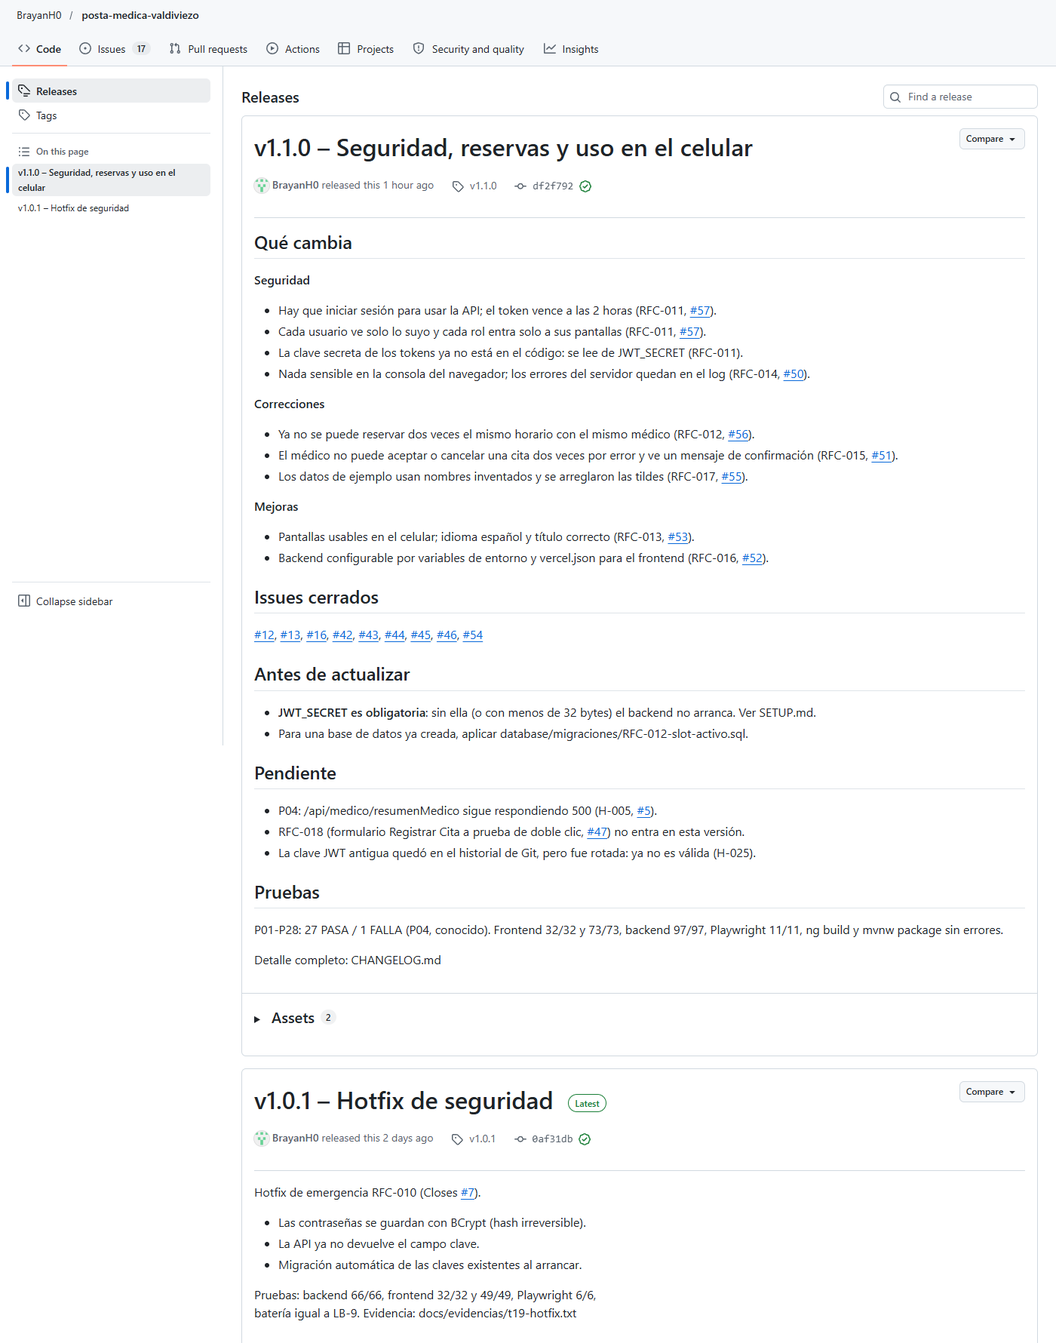
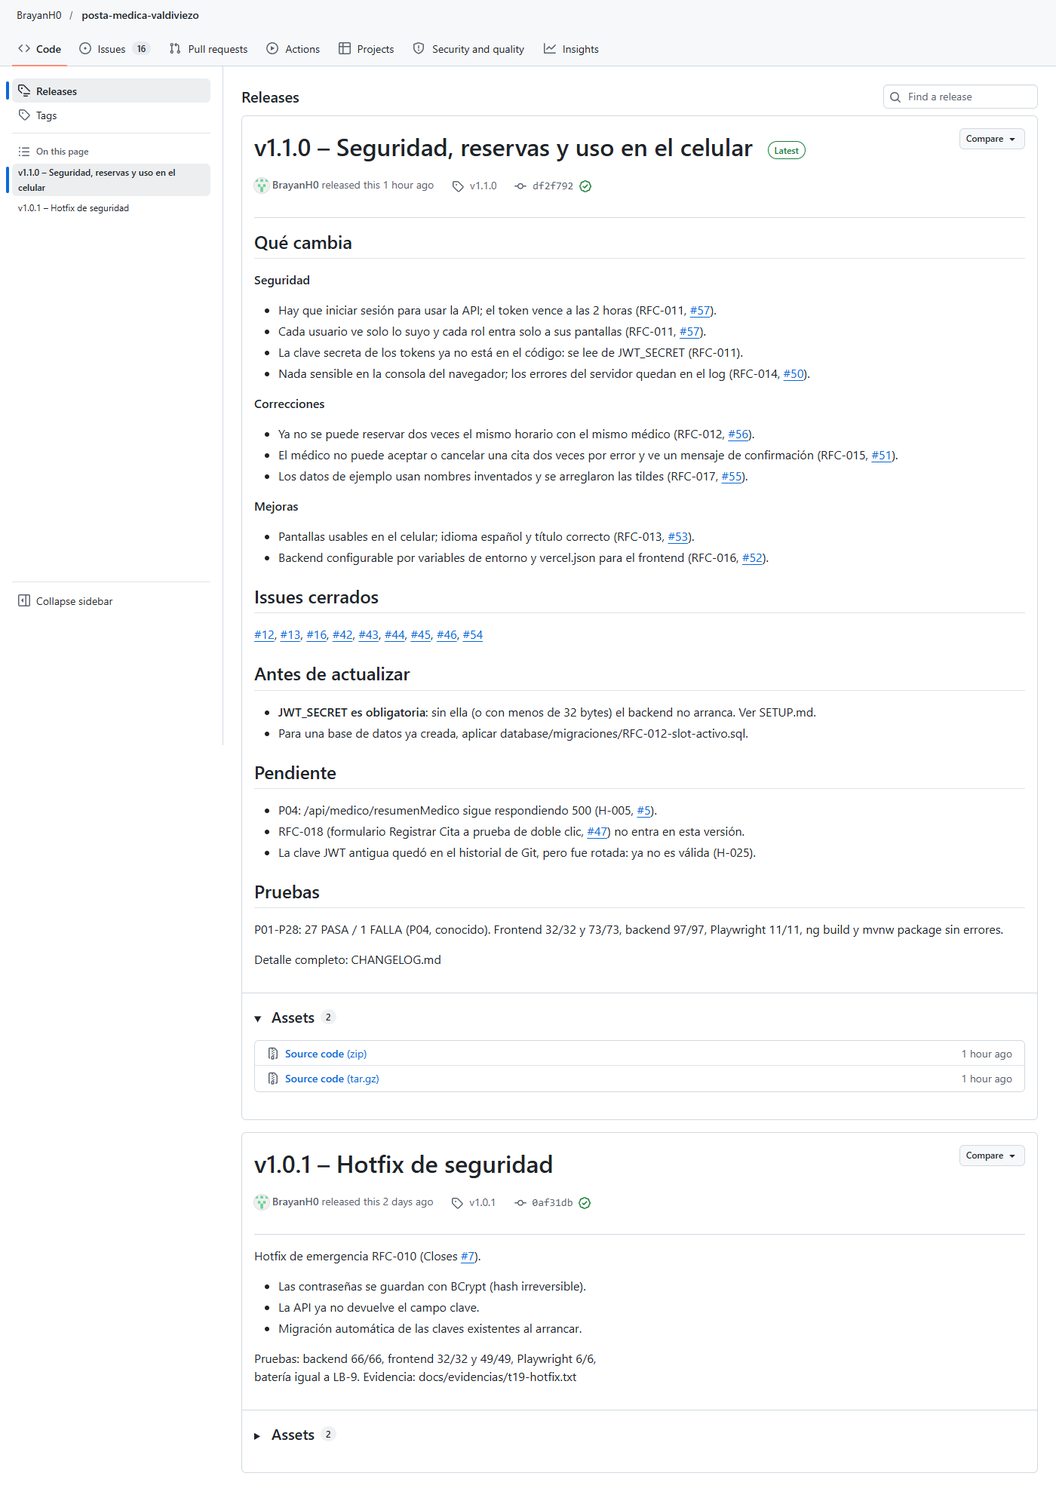
Docs: evidencia T3 actualizada (Latest, issue #25 y nombres)

diff --git a/docs/HALLAZGOS.md b/docs/HALLAZGOS.md
@@ -44,7 +44,7 @@ Rutas abreviadas: `FE/` = `proyecto_valdiviezo/src/app/`, `BE/` = `backend/backe
 | H-022 | Si el médico no tiene horario definido para el día elegido, "Registrar Cita" ofrece igual todos los bloques de 08:00 a 20:00. El código lo hace a propósito ("Fallback… any date is available"). En los datos actuales ningún médico tiene horario sábado ni domingo, así que cualquier fin de semana aparece con horas libres. | `FE/paciente/registrar-cita/registrar-cita.component.ts:96-108` | Alta | Correctivo | Código citado. BD: `SELECT id_medico, GROUP_CONCAT(dia_semana) FROM Disponibilidad_Medico GROUP BY id_medico` → los 15 médicos tienen solo `Lunes,Martes,Miércoles,Jueves,Viernes`. No se probó en pantalla. **Nota LB-6:** la regla se movió sin cambios a `frontend/src/app/features/paciente/registrar-cita/horarios-cita.ts` (`HORARIO_POR_DEFECTO` y `calcularHorariosDisponibles`); sigue abierto (U76, U77) | Abierto | Pendiente |
 | H-023 | Los estados de cita están escritos como números fijos repetidos en varios archivos (1 = Pendiente, 4 = Atendida…). El módulo médico usa además el estado "Aprobada", que no existe en la tabla `Estado_Cita` (los estados reales son Pendiente, Confirmada, Cancelada, Atendida y Reprogramada). | Números: `FE/paciente/registrar-cita/registrar-cita.component.ts:134`; `FE/paciente/mis-citas/mis-citas.component.ts:63-66,73-76`; `BE/repository/CitaRepository.java:22,48`. "Aprobada": `FE/medico-dashboard/services/medico.service.ts:11,54,72,78`; `FE/medico-dashboard/medico-citas-pendientes/medico-citas-pendientes.component.ts:37`; `FE/medico-dashboard/medico-citas-aprobadas/medico-citas-aprobadas.component.ts:19` | Media | Preventivo | `SELECT * FROM Estado_Cita` → 1 Pendiente, 2 Confirmada, 3 Cancelada, 4 Atendida, 5 Reprogramada. **Resuelto en RFC-003 (LB-3):** el módulo médico ya no usa "Aprobada" ni números fijos; trabaja con los nombres reales ("Pendiente", "Confirmada", "Cancelada") y el backend busca el ID en `Estado_Cita` (`Estado_CitaRepository.findByNombreEstado`); pantallas y menú dicen "Confirmadas". **Sigue pendiente:** los números fijos de `registrar-cita.component.ts:134` (`estado_cita: 1`), `mis-citas.component.ts:63-66,73-76` (switch 1–4) y `CitaRepository.java:22,48` (`estado_cita = 4`); y el nombre "aprobadas" en la ruta `/medico-dashboard/citas-aprobadas`, en los archivos `medico-citas-aprobadas.*` y en la clase `MedicoCitasAprobadasComponent` (se renombrarán en la reorganización, H-017). **Nota LB-4:** RFC-004 **no** los renombró: cambiar la ruta `/medico-dashboard/citas-aprobadas` cambia el comportamiento y la reorganización no puede hacerlo; los archivos solo se movieron a `frontend/src/app/features/medico/medico-citas-aprobadas/`. Sigue pendiente | Abierto (parcial: módulo médico resuelto en RFC-003) | RFC-003 (módulo médico); resto Pendiente |
 | H-024 | Los ingresos se calculan con el precio **actual** de la especialidad, no con el precio cobrado en la cita. Las consultas suman `Especialidad.precio` unidas por el médico; la tabla `Cita` no guarda precio. Si cambia el precio de una especialidad, cambian los ingresos de meses pasados. | `BE/repository/CitaRepository.java:18-23` (`sumTotalIngresos`), `:48-49` (`ingresosMensuales`); `BDPostaMedica.sql:88` (precio solo en `Especialidad`) | Alta | Correctivo | Código citado; `CREATE TABLE Cita` en `BDPostaMedica.sql` no tiene columna de precio | Abierto | Pendiente |
-| H-025 | La clave secreta para firmar los JWT está escrita en el código fuente. | `BE/seguridad/TokenUtils.java:15` (`ACCESS_TOKEN_SECRET = "…"`) | Alta | Preventivo | Código citado. **Tarea 26:** `TokenUtils` recibe `app.jwt.secret=${JWT_SECRET}` (sin valor por defecto; menos de 32 bytes → no arranca, U93); `git grep -n ACCESS_TOKEN_SECRET HEAD` en la rama → solo menciones en `docs/` (HALLAZGOS y auditorías, con el valor enmascarado), ninguna en `backend/`; `git log -S ACCESS_TOKEN_SECRET` → `17e2118` (commit inicial). **El valor viejo sigue en el historial de Git** (AUD-SEG-08): no se reutiliza, pero purgarlo con `git filter-repo` queda fuera de esta tarea | Cerrado en código; secreto rotado, queda en el historial. (RFC-011, LB-11 — PR #57 a `develop` y PR #59 a `master`. Tarea 29: el `JWT_SECRET` en uso mide 64 caracteres y es distinto del valor viejo de `TokenUtils.java` en LB-10, que mide 32; comparado con un script que no imprime ninguno de los dos. El valor viejo sigue en el historial de Git; purgarlo lo decide el usuario. El issue #25 sigue abierto en GitHub.) | RFC-011 (punto 6 del propósito) |
+| H-025 | La clave secreta para firmar los JWT está escrita en el código fuente. | `BE/seguridad/TokenUtils.java:15` (`ACCESS_TOKEN_SECRET = "…"`) | Alta | Preventivo | Código citado. **Tarea 26:** `TokenUtils` recibe `app.jwt.secret=${JWT_SECRET}` (sin valor por defecto; menos de 32 bytes → no arranca, U93); `git grep -n ACCESS_TOKEN_SECRET HEAD` en la rama → solo menciones en `docs/` (HALLAZGOS y auditorías, con el valor enmascarado), ninguna en `backend/`; `git log -S ACCESS_TOKEN_SECRET` → `17e2118` (commit inicial). **El valor viejo sigue en el historial de Git** (AUD-SEG-08): no se reutiliza, pero purgarlo con `git filter-repo` queda fuera de esta tarea | Cerrado en código; secreto rotado, queda en el historial. (RFC-011, LB-11 — PR #57 a `develop` y PR #59 a `master`. Tarea 29: el `JWT_SECRET` en uso mide 64 caracteres y es distinto del valor viejo de `TokenUtils.java` en LB-10, que mide 32; comparado con un script que no imprime ninguno de los dos. El valor viejo sigue en el historial de Git; el usuario decidió no reescribir el historial. El issue #25 se cerró el 2026-11-12 a las 17:55:56.) | RFC-011 (punto 6 del propósito) |
 | H-026 | `seguridad/prueba.java` es una clase de prueba dentro del código de producción: tiene un `main` que genera un token y lo imprime por consola. | `BE/seguridad/prueba.java:3-6` | Baja | Preventivo | Código citado. En LB-4 se eliminó; la única referencia era la configuración de depuración "prueba" de `backend/.vscode/launch.json`, que también se quitó | Cerrado (RFC-004, LB-4) | Reorganización de carpetas (RFC-004) |
 | H-027 | Hay más componentes huérfanos, además de los de H-009, que siguen usando las claves viejas `token` y `role`: `UsuariosComponent` lee `localStorage.getItem('token')` y no está en ninguna ruta ni lo importa ningún archivo; `login-paciente/login-paciente.ts` (distinto de `login-paciente.component.ts`) escribe `token` y `role` y tampoco está en las rutas. Como nadie los ejecuta, no afectan el esquema de sesión de RFC-001; se dejaron sin tocar porque están fuera de su alcance. | `FE/features/usuario/components/components.ts:14`; `FE/login-paciente/login-paciente.ts:27-28` | Baja | Preventivo | `grep -rn "UsuariosComponent\|components/components"` → solo su propio archivo; `app.routes.ts` no los referencia. En LB-4 se eliminaron `features/usuario/components/components.*` (4 archivos, incluido su spec) y `login-paciente/login-paciente.ts` (con su `.html`); evidencia en RFC-004 | Cerrado (RFC-004, LB-4) | Reorganización de carpetas (RFC-004) |
 | H-028 | El login de paciente no comprueba el rol: acepta credenciales de médico o de administrador y entra a las pantallas del paciente. Como los IDs de las tablas `Medico` y `Paciente` coinciden, el médico 1 ve las citas del **paciente** 1. Existía en LB-0 (esas líneas no cambiaron con RFC-001); se detectó durante las pruebas de LB-1. | `FE/login-paciente/login-paciente.component.ts:51-55` | Crítica | Correctivo | Formulario de paciente con `10000001` / `123456` (médico) → URL `/welcome`, localStorage `{"userId":"1","userName":"Jorge Santos Ruiz","userType":"medico"}`; `/paciente/mis-citas` muestra "2023-07-01 - 09:00:00 Atendida Médico: Jorge Santos Ruiz … Chequeo general" (citas del paciente 1). En LB-2, P19: el login de paciente con médico o admin se queda en `/login-paciente`, localStorage `{}` | Cerrado (RFC-002, LB-2) | RFC-002 |
@@ -99,7 +99,7 @@ Cada hallazgo tiene un issue en `BrayanH0/posta-medica-valdiviezo` con el mismo 
 | H-022 | [#22](https://github.com/BrayanH0/posta-medica-valdiviezo/issues/22) | Abierto | alta, bug |
 | H-023 | [#23](https://github.com/BrayanH0/posta-medica-valdiviezo/issues/23) | Abierto | media, mejora |
 | H-024 | [#24](https://github.com/BrayanH0/posta-medica-valdiviezo/issues/24) | Abierto | alta, bug |
-| H-025 | [#25](https://github.com/BrayanH0/posta-medica-valdiviezo/issues/25) | Abierto (comprobado en la tarea 29: el PR #59 no lo nombra en "Closes"; el secreto viejo sigue en el historial) | alta, mejora |
+| H-025 | [#25](https://github.com/BrayanH0/posta-medica-valdiviezo/issues/25) | Cerrado (2026-11-12 17:55:56, a mano por el usuario, con el comentario "Cerrado en código con RFC-011 (v1.1.0)… El secreto antiguo quedó en el historial de Git, pero fue rotado y ya no es válido. No se reescribe el historial…") | alta, mejora |
 | H-026 | [#26](https://github.com/BrayanH0/posta-medica-valdiviezo/issues/26) | Cerrado | baja, mejora |
 | H-027 | [#27](https://github.com/BrayanH0/posta-medica-valdiviezo/issues/27) | Cerrado | baja, mejora |
 | H-028 | [#28](https://github.com/BrayanH0/posta-medica-valdiviezo/issues/28) | Cerrado | bug, critica |
@@ -141,11 +141,11 @@ Cada hallazgo tiene un issue en `BrayanH0/posta-medica-valdiviezo` con el mismo 
 
 **Tarea 27 (2026-11-12, release v1.1.0):** en la tabla de hallazgos, H-012, H-013, H-016, H-025, H-042, H-043, H-044, H-045, H-046 y H-048 pasan a "en `develop` y en `release/1.1`, sale en v1.1.0" (antes: "pendiente de merge" o "Abierto"). **No se marcan "Cerrado"** hasta que `release/1.1` se una a `master` y lleve el tag LB-11. En GitHub, sus issues (#12, #13, #16, #42, #43, #44, #45, #46 y #54) **siguen abiertos**: los PR #50–#53 y #55–#57 se unieron a `develop`, y GitHub solo cierra issues cuando el cambio llega a la rama por defecto (`master`). El PR de `release/1.1` a `master` lleva "Closes" de los 9, así que se cierran al unirlo; la columna "Estado en GitHub" de la tabla de issues se actualiza después de ese merge. H-005 (#5, P04) y H-047 (#47, RFC-018) no entran en v1.1.0 y siguen abiertos.
 
-**Tarea 29 (2026-11-12, cierre post-release):** el PR #59 (`release/1.1` → `master`) se unió el 2026-11-12 a las 16:10:42 y los tags `LB-11` y `v1.1.0` (16:11:26) apuntan a su commit de merge `df2f792`. Por eso los 10 hallazgos de la tarea 27 pasan a "Cerrado (…, LB-11)" y H-007 a "Cerrado (RFC-010, LB-10)" (PR #48, tags `LB-10` y `v1.0.1` sobre `0af31db`). H-025 queda "Cerrado en código; secreto rotado, queda en el historial". Estado en GitHub según `gh issue view` (2026-11-12 17:12:54; horas de GitHub en UTC pasadas a −05:00): #7 cerrado el 2026-11-10 20:24; #12, #13, #16, #42–#46 y #54 cerrados el 2026-11-12 entre 16:10:43 y 16:10:50 por el PR #59; #5, #25 y #47 siguen abiertos.
+**Tarea 29 (2026-11-12, cierre post-release):** el PR #59 (`release/1.1` → `master`) se unió el 2026-11-12 a las 16:10:42 y los tags `LB-11` y `v1.1.0` (16:11:26) apuntan a su commit de merge `df2f792`. Por eso los 10 hallazgos de la tarea 27 pasan a "Cerrado (…, LB-11)" y H-007 a "Cerrado (RFC-010, LB-10)" (PR #48, tags `LB-10` y `v1.0.1` sobre `0af31db`). H-025 queda "Cerrado en código; secreto rotado, queda en el historial". Estado en GitHub según `gh issue view` (2026-11-12 17:12:54; horas de GitHub en UTC pasadas a −05:00): #7 cerrado el 2026-11-10 20:24; #12, #13, #16, #42–#46 y #54 cerrados el 2026-11-12 entre 16:10:43 y 16:10:50 por el PR #59; #5, #25 y #47 siguen abiertos. *Actualización (2026-11-12 17:56:19, `gh`): el usuario cerró el #25 a las 17:55:56; quedan abiertos #5 y #47. En total, 16 issues abiertos y 32 cerrados.*
 
 ## Observaciones sin número (tarea 29; decide el usuario si se registran como hallazgo)
 
-- **El GitHub Release marcado "Latest" es v1.0.1, no v1.1.0.** `gh release list` (2026-11-12, tarea 29) muestra v1.0.1 como *Latest* aunque v1.1.0 es más nuevo. Lo más probable es que al publicar v1.1.0 se desmarcara la opción "Set as the latest release"; la causa no se verificó. Se ve en la Figura 14-3 del informe. Para corregirlo hay que editar el Release v1.1.0 en GitHub; no se tocó.
+- **El GitHub Release marcado "Latest" es v1.0.1, no v1.1.0.** `gh release list` (2026-11-12, tarea 29) muestra v1.0.1 como *Latest* aunque v1.1.0 es más nuevo. Lo más probable es que al publicar v1.1.0 se desmarcara la opción "Set as the latest release"; la causa no se verificó. Para corregirlo había que editar el Release v1.1.0 en GitHub. **Resuelto:** el usuario marcó v1.1.0 como "Latest" (`gh release list`, 2026-11-12 17:56:19), y la Figura 14-3 se volvió a tomar.
 - **El reporte de la tarea 28 (tablas 6 y 8) no quedó en `docs/`.** Se reconstruyó en la tarea 29 (ver BITACORA).
 - **El token se guarda en `localStorage`**, igual que el resto de la sesión. Un XSS podría leerlo; hoy no hay *sinks* peligrosos en el frontend (AUD-SEG, "Revisado sin hallazgos"). La alternativa (cookie `HttpOnly`) obliga a reactivar CSRF y a configurar cookies entre dominios, que RFC-011 descartó.
 - **Sin límite de intentos en `/login`** (AUD-SEG-06): sigue igual.

diff --git a/docs/entrega/T3/EVIDENCIA_T3.md b/docs/entrega/T3/EVIDENCIA_T3.md
@@ -2,7 +2,7 @@
 
 Texto listo para pegar en el informe. Cada imagen está en `img/`, tiene 1400 px de ancho y lleva su pie de figura debajo. Las fechas y horas salen de `git log`, `git for-each-ref` y de la API de GitHub (`gh`), en hora de Perú (UTC−5). Ninguna imagen muestra tokens, claves ni el `JWT_SECRET`.
 
-Imágenes tomadas el 2026-11-12. Las de GitHub, entre las 17:31:07 y las 17:31:42, sin iniciar sesión (el repositorio es público; por eso arriba aparecen "Sign in" y "Sign up" y las fechas se ven como "yesterday" o "1h ago"). Las de la aplicación, entre las 17:24 y las 17:25, con la versión 1.1.0 (`master` = tag `LB-11`, `df2f792`) y la base de datos recién cargada con `database/BDPostaMedica.sql` (datos ficticios). Durante las capturas no se guardó ninguna cita.
+Imágenes tomadas el 2026-11-12. Las de GitHub, entre las 17:31:07 y las 17:31:42 (Figuras 13-1 y 13-2) y entre las 18:00:11 y las 18:00:58 (Figuras 14-3, 21 y 22, tomadas de nuevo después de marcar v1.1.0 como "Latest" y cerrar el issue #25), sin iniciar sesión (el repositorio es público; por eso arriba aparecen "Sign in" y "Sign up" y las fechas se ven como "yesterday" o "1h ago"). Las de la aplicación, entre las 17:24 y las 17:25, con la versión 1.1.0 (`master` = tag `LB-11`, `df2f792`) y la base de datos recién cargada con `database/BDPostaMedica.sql` (datos ficticios). Durante las capturas no se guardó ninguna cita.
 
 ---
 
@@ -62,17 +62,16 @@ Conteo con `git log LB-11 --no-merges` (commits propios, sin contar los de merge
 
 | Integrante | Cuenta de GitHub | Paquete / RFC | Pull request | N.º de commits |
 |---|---|---|---|---|
-| Sin registro (no figura en el repositorio) | pfaberio27-png | P1 — RFC-014 (consola y log de errores) | #50 | 6 (5 + 1 de corrección) |
-| Sin registro | Paolo1710 | P3 — RFC-015 (Aceptar/Cancelar del médico) | #51 | 3 |
-| Sin registro | Angel29042001 | P4 — RFC-013 (accesibilidad y celular) | #53 | 4 |
-| Sin registro | Rashidchz | P5 — RFC-016 (configuración para el despliegue) | #52 | 4 |
-| Brayan | BrayanH0 | RFC-001 a RFC-012 y RFC-017 (incluye la reorganización, las refactorizaciones R1–R4, el hotfix RFC-010 y la autenticación RFC-011), release v1.1.0 y documentación | #48, #49, #55, #56, #57, #58, #59, #60 | 53 |
+| Clauder Paulo Faberio Carhuapoma | pfaberio27-png | P1 — RFC-014 (consola y log de errores) | #50 | 6 (5 + 1 de corrección) |
+| Christian Paolo Silva Carrillo | Paolo1710 | P3 — RFC-015 (Aceptar/Cancelar del médico) | #51 | 3 |
+| Angel Gabriel Nolasco Poves | Angel29042001 | P4 — RFC-013 (accesibilidad y celular) | #53 | 4 |
+| Rashid Gabriel Chavez Zevallos | Rashidchz | P5 — RFC-016 (configuración para el despliegue) | #52 | 4 |
+| Brayan Junior Huamani Ostos | BrayanH0 | Hotfix RFC-010, RFC-011, RFC-012, RFC-017 y release v1.1.0 (además, en la etapa T2: RFC-001 a RFC-009 y la documentación) | #48, #49, #55, #56, #57, #58, #59, #60 | 53 |
 | **Total** | | | | **70** |
 
 **Detalle de los 53 commits de BrayanH0:** 6 de RFC-011; 2 de RFC-010; 2 de RFC-017; 1 por cada uno de RFC-001 a RFC-009 y RFC-012 (10; RFC-004 es la reorganización y RFC-005 a 008 las refactorizaciones R1–R4); y 33 de documentación, pruebas de caracterización, la batería de regresión y la release (por ejemplo "Release v1.1.0" y los registros de la bitácora). Además figuran 16 commits de merge de Brayan: 11 hechos desde GitHub al unir los PR y 5 locales.
 
 **Notas:**
-- Los nombres de los integrantes no están en el repositorio; completar la primera columna.
 - 52 de los 53 commits de BrayanH0 y los 4 de Angel29042001 llevan `Co-Authored-By: Claude Opus 5.5`: se hicieron con ayuda de Claude Code. Los de pfaberio27-png, Paolo1710 y Rashidchz no lo llevan (se hicieron en el editor web de GitHub).
 - El PR de P1 tiene 6 commits porque incluye el de corrección pedido en la revisión (ítem 13).
 
@@ -82,7 +81,7 @@ Conteo con `git log LB-11 --no-merges` (commits propios, sin contar los de merge
 
 ![Releases en GitHub](img/fig-14-3.png)
 
-**Figura 14-3.** Página Releases del repositorio en GitHub, con la versión v1.1.0 "Seguridad, reservas y uso en el celular" (tag `v1.1.0`, commit `df2f792`) y la versión v1.0.1 "Hotfix de seguridad" (tag `v1.0.1`, commit `0af31db`). *Nota: GitHub muestra la etiqueta "Latest" en v1.0.1 porque así quedó marcada al publicar; la versión vigente es v1.1.0.*
+**Figura 14-3.** Página Releases del repositorio en GitHub, con la versión vigente v1.1.0 "Seguridad, reservas y uso en el celular" (marcada "Latest"; tag `v1.1.0`, commit `df2f792`) y la versión anterior v1.0.1 "Hotfix de seguridad" (tag `v1.0.1`, commit `0af31db`). Cada release trae su descripción, los issues que cierra y el código fuente descargable (Assets).
 
 **Tags del repositorio**
 
@@ -128,11 +127,11 @@ Datos (de `docs/PRUEBAS.md`, tabla "Pruebas que pasan por línea base"): LB-0 7 
 
 ![Issues abiertos](img/fig-21.png)
 
-**Figura 21.** Issues abiertos en GitHub (17): los hallazgos que todavía no tienen un cambio aplicado, cada uno con su gravedad y su tipo (`bug`, `mejora`).
+**Figura 21.** Issues abiertos en GitHub (16): los hallazgos que todavía no tienen un cambio aplicado, cada uno con su gravedad y su tipo (`bug`, `mejora`).
 
 ![Issues cerrados](img/fig-22.png)
 
-**Figura 22.** Issues cerrados en GitHub (31; se ve la primera página, con 25). Los de arriba (H-042 a H-048, H-016, H-013 y H-012) se cerraron con la release v1.1.0 y muestran el ícono del pull request que los cerró. Los demás se cerraron en octubre, con un comentario de cierre: son hallazgos atendidos entre LB-1 y LB-9, y correcciones de documentación (H-040, H-041).
+**Figura 22.** Issues cerrados en GitHub (32; se ve la primera página, con 25). H-042 a H-048, H-016, H-013 y H-012 se cerraron con la release v1.1.0 y muestran el ícono del pull request que los cerró. H-025 (clave secreta de JWT en el código) se cerró después de la release, con un comentario: el secreto ya no está en el código y el antiguo, que quedó en el historial, fue rotado. Los demás se cerraron en octubre, con un comentario de cierre: son hallazgos atendidos entre LB-1 y LB-9, y correcciones de documentación (H-040, H-041).
 
 ---
 

diff --git a/docs/BITACORA.md b/docs/BITACORA.md
@@ -1515,3 +1515,16 @@ Después del merge, PR de `master` a `develop`:
 ```
 gh pr create --base develop --head master --title "Merge master (cierre v1.1.0 y evidencia T3) en develop" --body "Devuelve a develop la documentacion de la tarea 29 (cierre post-release v1.1.0 y evidencia del informe T3). Sin cambios de codigo."
 ```
+
+### [2026-11-12 17:56–18:02] Tarea 29 (continuación): cambios del usuario en GitHub y nombres del 14.2
+- **Pedido del usuario:** marcó v1.1.0 como "Latest" y cerró el issue #25. Pidió volver a tomar las Figuras 14-3, 21 y 22 y corregir los totales, poner los nombres de los integrantes en el 14.2, y hacer un commit nuevo (sin enmendar).
+- **Verificación antes de editar** (17:56:19): `gh release list` → v1.1.0 "Latest"; `gh issue view 25` → CLOSED 2026-11-12T22:55:56Z (17:55:56), `COMPLETED`, con el comentario de cierre del usuario; `gh issue list` → **16 abiertos, 32 cerrados**. Coincide con lo que dijo el usuario.
+- **Figuras:** se agregó a `componer.cjs` (scratchpad) la variable `SOLO` para regenerar solo `fig-14-3`, `fig-21` y `fig-22`; las otras 16 imágenes no cambian (`git status` muestra solo esas 3).
+  - **Fallo propio:** la primera corrida (17:57:46–17:58:16) dejó dos defectos. En la 14-3, el bloque "Assets" de v1.1.0 (desplegado por ser Latest) salía cargando y v1.0.1 quedaba cortado. En la 21 entraba parte del pie de GitHub, porque la página es más corta con 16 issues. Causa: los recortes tenían una altura fija, medida en la página anterior.
+  - **Corrección:** antes de capturar, el script hace scroll hasta el final para que carguen los bloques diferidos, y el recorte se calcula desde el alto real de cada página (sin los 70 px del pie). La corrida final (18:00:11–18:00:58) dio 14-3 1400×1998 (los Assets de v1.1.0 cargados y v1.0.1 completo), 21 1400×1325 y 22 1400×1998 (H-025 aparece cerrado). El script avisó "quedan bloques cargando" en 2 páginas (fragmentos de GitHub que no se ven); se comprobó mirando las imágenes que no queda ningún círculo de carga.
+- **Texto:**
+  - `docs/entrega/T3/EVIDENCIA_T3.md`: horas de las capturas de GitHub; pie de la 14-3 sin la nota "Latest en v1.0.1"; Figura 21 = 16 abiertos; Figura 22 = 32 cerrados, con el cierre de H-025; nombres de los integrantes en la tabla del 14.2 (se quitó "Sin registro" y la nota "completar la primera columna"). En la fila de BrayanH0 se usó la descripción del usuario (hotfix, RFC-011, 012, 017 y release) y se agregó "además, en la etapa T2: RFC-001 a RFC-009 y la documentación", porque sus 53 commits incluyen esos cambios y el conteo dejaría de corresponder a la columna.
+  - `docs/HALLAZGOS.md`: el #25 pasa a cerrado en la tabla de issues y en la columna Estado de H-025 (el usuario decidió no reescribir el historial); actualización en la nota de la tarea 29; la observación "Latest" queda resuelta.
+  - `docs/rfc/RFC-011.md`: en la evaluación posterior, el #25 cerrado.
+- **Pendientes que se resolvieron:** (1) "Latest", (2) issue #25, (3) nombres. Queda solo (4): confirmar el número de la Figura 36.
+- Commit nuevo "Docs: evidencia T3 actualizada (Latest, issue #25 y nombres)", sin enmendar los anteriores. Los comandos de push y PR son los mismos de arriba.

diff --git a/docs/rfc/RFC-011.md b/docs/rfc/RFC-011.md
@@ -190,5 +190,5 @@ Commits de la rama (uno por etapa): `e4fd50f` (docs: base y matriz propuesta), `
 - Riesgos que quedan (registrados en `docs/HALLAZGOS.md`, observaciones de la tarea 26): token en `localStorage`, sin límite de intentos en `/login`, *mass assignment* en altas de médico y administrador (ya solo para el admin), URL de la API escritas en 8 archivos del frontend, secreto viejo en el historial.
 
 ### Evaluación posterior (tarea 29, 2026-11-12)
-- **¿Se cumplió?** Sí, para H-013, H-016 y H-048. La batería sobre el tag `LB-11` (17:10:43–17:14:06) repite el resultado de la rama: P14, P15 y P16 PASA; P28 17/17; sin token, 401 en 13 de 14 listados. Backend 97/97, frontend 32/32 y 73/73, Playwright 11/11. **H-025, en parte:** el código ya no tiene el secreto. El `JWT_SECRET` en uso (64 caracteres) es distinto del valor viejo de LB-10 (32), comparado con un script que no imprime ninguno. Pero el valor viejo sigue en el historial de Git y el issue #25 sigue abierto.
+- **¿Se cumplió?** Sí, para H-013, H-016 y H-048. La batería sobre el tag `LB-11` (17:10:43–17:14:06) repite el resultado de la rama: P14, P15 y P16 PASA; P28 17/17; sin token, 401 en 13 de 14 listados. Backend 97/97, frontend 32/32 y 73/73, Playwright 11/11. **H-025, en parte:** el código ya no tiene el secreto. El `JWT_SECRET` en uso (64 caracteres) es distinto del valor viejo de LB-10 (32), comparado con un script que no imprime ninguno. El valor viejo sigue en el historial de Git; el usuario decidió no reescribirlo y cerró el issue #25 el 2026-11-12 a las 17:55:56 con esa explicación.
 - **¿Se usó el plan de back-out?** No. No hay commits de revert (`git log --all -i --grep=revert` vacío) y no se volvió a `permitAll()`.
